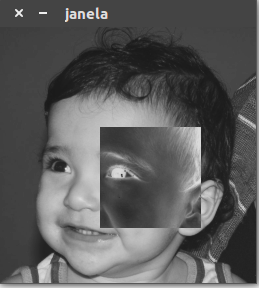
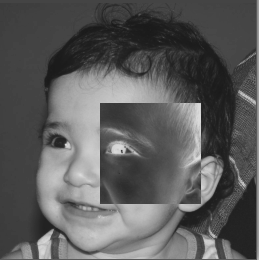
upload 1.3 feito

diff --git a/index.html b/index.html
@@ -512,6 +512,7 @@ body.book #toc,body.book #preamble,body.book h1.sect0,body.book .sect1>h2{page-b
 <ul class="sectlevel2">
 <li><a href="#_1_1_invertendo_cores_de_uma_região">1.1 Invertendo cores de uma região</a></li>
 <li><a href="#_1_2_invertendo_quadrantes_de_uma_imagem">1.2 Invertendo quadrantes de uma imagem</a></li>
+<li><a href="#_1_3_rotulando_e_realizando_contagem_de_objetos_pertencentes_a_uma_imagem">1.3 Rotulando e realizando contagem de objetos pertencentes a uma imagem</a></li>
 </ul>
 </li>
 </ul>
@@ -540,7 +541,7 @@ body.book #toc,body.book #preamble,body.book h1.sect0,body.book .sect1>h2{page-b
 <div class="sect2">
 <h3 id="_1_1_invertendo_cores_de_uma_região">1.1 Invertendo cores de uma região</h3>
 <div class="paragraph">
-<p>O programa <a href="PDI/regions.cpp">regions</a> é capaz de receber como entrada dois pontos (\$\P_{1}\$ e \$\P_{2}\$)  que compõem um retângulo de vértices opostos. Essa região, em efeito negativo, é criada.</p>
+<p>O programa <a href="PDI/regions.cpp">regions.cpp</a> é capaz de receber como entrada dois pontos (\$\P_{1}\$ e \$\P_{2}\$)  que compõem um retângulo de vértices opostos. Essa região, em efeito negativo, é criada.</p>
 </div>
 <div id="exa_hello" class="listingblock">
 <div class="title">regions.cpp</div>
@@ -627,7 +628,7 @@ body.book #toc,body.book #preamble,body.book h1.sect0,body.book .sect1>h2{page-b
 			<span class="tok-n">image</span><span class="tok-p">.</span><span class="tok-n">at</span><span class="tok-o">&lt;</span><span class="tok-n">uchar</span><span class="tok-o">&gt;</span><span class="tok-p">(</span><span class="tok-n">i</span><span class="tok-p">,</span><span class="tok-n">j</span><span class="tok-p">)</span><span class="tok-o">=</span><span class="tok-mi">255</span><span class="tok-o">-</span><span class="tok-n">image</span><span class="tok-p">.</span><span class="tok-n">at</span><span class="tok-o">&lt;</span><span class="tok-n">uchar</span><span class="tok-o">&gt;</span><span class="tok-p">(</span><span class="tok-n">i</span><span class="tok-p">,</span><span class="tok-n">j</span><span class="tok-p">);</span>
 			<span class="tok-p">}</span>
 		<span class="tok-p">}</span>
-		<span class="tok-n">imshow</span><span class="tok-p">(</span><span class="tok-s">&quot;janela&quot;</span><span class="tok-p">,</span><span class="tok-n">image</span><span class="tok-p">);</span>
+		<span class="tok-n">imshow</span><span class="tok-p">(</span><span class="tok-s">&quot;image&quot;</span><span class="tok-p">,</span><span class="tok-n">image</span><span class="tok-p">);</span>
 		<span class="tok-n">waitKey</span><span class="tok-p">();</span>
 	<span class="tok-p">}</span>
 <span class="tok-k">else</span><span class="tok-p">{</span>
@@ -645,7 +646,7 @@ body.book #toc,body.book #preamble,body.book h1.sect0,body.book .sect1>h2{page-b
 <div class="sect2">
 <h3 id="_1_2_invertendo_quadrantes_de_uma_imagem">1.2 Invertendo quadrantes de uma imagem</h3>
 <div class="paragraph">
-<p>O programa <a href="PDI/trocaregioes.cpp">trocaregiões</a> é capaz de dividir a imagem em quatro partes e inverter seus quadrantes em diagonal.</p>
+<p>O programa <a href="PDI/trocaregioes.cpp">trocaregioes.cpp</a> é capaz de dividir a imagem em quatro partes e inverter seus quadrantes em diagonal.</p>
 </div>
 <div id="exa" class="listingblock">
 <div class="title">trocaregioes.cpp</div>
@@ -688,7 +689,107 @@ body.book #toc,body.book #preamble,body.book h1.sect0,body.book .sect1>h2{page-b
 <div class="paragraph">
 <div class="title">Antes e depois:</div>
 <p><span class="image"><img src="./figures/trocaregioesbefore.png" alt="trocaregioesbefore"></span>
-<span class="image"><img src="./figures/trocaregioes.png" alt="256" width="256" height="role=right"></span></p>
+<span class="image"><img src="./figures/trocaregioes.png" alt="role=right"></span></p>
+</div>
+</div>
+<div class="sect2">
+<h3 id="_1_3_rotulando_e_realizando_contagem_de_objetos_pertencentes_a_uma_imagem">1.3 Rotulando e realizando contagem de objetos pertencentes a uma imagem</h3>
+<div class="paragraph">
+<p>O objetivo dessa prática de programação foi aprimorar o programa <a href="PDI/labeling.cpp">labeling.cpp</a> ,previamento desenvolvido pelo professor Agostinho, da seguinte maneira: o algorítmo ignora objetos que estejam no limite da borda da figura e faz destinção de objetos com buracos em seu interior e objetos que não contenham buracos.</p>
+</div>
+<div class="paragraph">
+<p>O programa <a href="PDI/labeling_aprimorado.cpp">labeling_aprimorado.cpp</a> foi desenvolvido e seu código segue abaixo, bem como seus resultados.</p>
+</div>
+<div id="exa1" class="listingblock">
+<div class="title">labeling_aprimorado.cpp</div>
+<div class="content">
+<pre class="pygments highlight"><code data-lang="cpp"><span></span><span class="tok-cp">#include</span> <span class="tok-cpf">&lt;iostream&gt;</span><span class="tok-cp"></span>
+<span class="tok-cp">#include</span> <span class="tok-cpf">&lt;opencv2/opencv.hpp&gt;</span><span class="tok-cp"></span>
+<span class="tok-k">using</span> <span class="tok-k">namespace</span> <span class="tok-n">cv</span><span class="tok-p">;</span>
+<span class="tok-k">using</span> <span class="tok-k">namespace</span> <span class="tok-n">std</span><span class="tok-p">;</span>
+<span class="tok-kt">int</span> <span class="tok-nf">main</span><span class="tok-p">(</span><span class="tok-kt">int</span> <span class="tok-n">argc</span><span class="tok-p">,</span> <span class="tok-kt">char</span><span class="tok-o">**</span> <span class="tok-n">argv</span><span class="tok-p">){</span>
+  <span class="tok-n">Mat</span> <span class="tok-n">image</span><span class="tok-p">,</span> <span class="tok-n">mask</span><span class="tok-p">;</span>
+  <span class="tok-kt">int</span> <span class="tok-n">width</span><span class="tok-p">,</span> <span class="tok-n">height</span><span class="tok-p">;</span>
+  <span class="tok-kt">int</span> <span class="tok-n">nobjects</span><span class="tok-o">=</span><span class="tok-mi">0</span><span class="tok-p">,</span><span class="tok-n">nobjectscomburaco</span><span class="tok-o">=</span><span class="tok-mi">0</span><span class="tok-p">,</span><span class="tok-n">tonNpossuiBuraco</span><span class="tok-o">=</span><span class="tok-mi">150</span><span class="tok-p">,</span><span class="tok-n">tonPossuiBuraco</span><span class="tok-o">=</span><span class="tok-mi">80</span><span class="tok-p">;</span>
+  <span class="tok-n">CvPoint</span> <span class="tok-n">p</span><span class="tok-p">;</span>
+  <span class="tok-n">image</span> <span class="tok-o">=</span> <span class="tok-n">imread</span><span class="tok-p">(</span><span class="tok-n">argv</span><span class="tok-p">[</span><span class="tok-mi">1</span><span class="tok-p">],</span><span class="tok-n">CV_LOAD_IMAGE_GRAYSCALE</span><span class="tok-p">);</span>
+
+  <span class="tok-k">if</span><span class="tok-p">(</span><span class="tok-o">!</span><span class="tok-n">image</span><span class="tok-p">.</span><span class="tok-n">data</span><span class="tok-p">){</span>
+    <span class="tok-n">std</span><span class="tok-o">::</span><span class="tok-n">cout</span> <span class="tok-o">&lt;&lt;</span> <span class="tok-s">&quot;imagem nao carregou corretamente</span><span class="tok-se">\n</span><span class="tok-s">&quot;</span><span class="tok-p">;</span>
+    <span class="tok-k">return</span><span class="tok-p">(</span><span class="tok-o">-</span><span class="tok-mi">1</span><span class="tok-p">);</span>
+  <span class="tok-p">}</span>
+  <span class="tok-n">width</span><span class="tok-o">=</span><span class="tok-n">image</span><span class="tok-p">.</span><span class="tok-n">size</span><span class="tok-p">().</span><span class="tok-n">width</span><span class="tok-p">;</span>
+  <span class="tok-n">height</span><span class="tok-o">=</span><span class="tok-n">image</span><span class="tok-p">.</span><span class="tok-n">size</span><span class="tok-p">().</span><span class="tok-n">height</span><span class="tok-p">;</span>
+
+  <span class="tok-n">p</span><span class="tok-p">.</span><span class="tok-n">x</span><span class="tok-o">=</span><span class="tok-mi">0</span><span class="tok-p">;</span>
+  <span class="tok-n">p</span><span class="tok-p">.</span><span class="tok-n">y</span><span class="tok-o">=</span><span class="tok-mi">0</span><span class="tok-p">;</span>
+<span class="tok-c1">//criando a margem de 1 pixel em tom 255 (branco)</span>
+<span class="tok-k">for</span><span class="tok-p">(</span><span class="tok-kt">int</span> <span class="tok-n">x</span><span class="tok-o">=</span><span class="tok-mi">0</span><span class="tok-p">;</span><span class="tok-n">x</span><span class="tok-o">&lt;</span><span class="tok-n">height</span><span class="tok-p">;</span><span class="tok-o">++</span><span class="tok-n">x</span><span class="tok-p">){</span>
+  <span class="tok-k">for</span> <span class="tok-p">(</span><span class="tok-kt">int</span> <span class="tok-n">y</span> <span class="tok-o">=</span> <span class="tok-mi">0</span><span class="tok-p">;</span> <span class="tok-n">y</span> <span class="tok-o">&lt;</span> <span class="tok-n">width</span><span class="tok-p">;</span> <span class="tok-o">++</span><span class="tok-n">y</span><span class="tok-p">)</span>
+  <span class="tok-p">{</span>
+    <span class="tok-k">if</span><span class="tok-p">(</span><span class="tok-n">x</span><span class="tok-o">==</span><span class="tok-mi">0</span> <span class="tok-o">||</span> <span class="tok-n">x</span><span class="tok-o">==</span> <span class="tok-n">height</span><span class="tok-o">-</span><span class="tok-mi">1</span><span class="tok-p">){</span>
+      <span class="tok-n">image</span><span class="tok-p">.</span><span class="tok-n">at</span><span class="tok-o">&lt;</span><span class="tok-n">uchar</span><span class="tok-o">&gt;</span><span class="tok-p">(</span><span class="tok-n">x</span><span class="tok-p">,</span><span class="tok-n">y</span><span class="tok-p">)</span><span class="tok-o">=</span><span class="tok-mi">255</span><span class="tok-p">;</span>
+    <span class="tok-p">}</span>
+    <span class="tok-k">else</span> <span class="tok-k">if</span><span class="tok-p">(</span><span class="tok-n">y</span><span class="tok-o">==</span><span class="tok-mi">0</span> <span class="tok-o">||</span> <span class="tok-n">y</span><span class="tok-o">==</span><span class="tok-n">width</span><span class="tok-o">-</span><span class="tok-mi">1</span><span class="tok-p">){</span>
+      <span class="tok-n">image</span><span class="tok-p">.</span><span class="tok-n">at</span><span class="tok-o">&lt;</span><span class="tok-n">uchar</span><span class="tok-o">&gt;</span><span class="tok-p">(</span><span class="tok-n">x</span><span class="tok-p">,</span><span class="tok-n">y</span><span class="tok-p">)</span><span class="tok-o">=</span><span class="tok-mi">255</span><span class="tok-p">;</span>
+    <span class="tok-p">}</span>
+  <span class="tok-p">}</span>
+<span class="tok-p">}</span>
+<span class="tok-c1">//Tira todas as bolhas que tocam a margem criada e a mesma</span>
+<span class="tok-n">floodFill</span><span class="tok-p">(</span><span class="tok-n">image</span><span class="tok-p">,</span><span class="tok-n">p</span><span class="tok-p">,</span><span class="tok-mi">0</span><span class="tok-p">);</span>
+<span class="tok-c1">//Cria o plano de fundo com valor diferente do aplicado aos buracos das bolhas</span>
+<span class="tok-n">floodFill</span><span class="tok-p">(</span><span class="tok-n">image</span><span class="tok-p">,</span><span class="tok-n">p</span><span class="tok-p">,</span><span class="tok-mi">1</span><span class="tok-p">);</span>
+<span class="tok-c1">// busca  e rotulação dos objetos presentes na imagem, assumindo que todos não tem buraco</span>
+  <span class="tok-n">nobjects</span><span class="tok-o">=</span><span class="tok-mi">0</span><span class="tok-p">;</span>
+  <span class="tok-k">for</span><span class="tok-p">(</span><span class="tok-kt">int</span> <span class="tok-n">i</span><span class="tok-o">=</span><span class="tok-mi">0</span><span class="tok-p">;</span> <span class="tok-n">i</span><span class="tok-o">&lt;</span><span class="tok-n">height</span><span class="tok-p">;</span> <span class="tok-n">i</span><span class="tok-o">++</span><span class="tok-p">){</span>
+    <span class="tok-k">for</span><span class="tok-p">(</span><span class="tok-kt">int</span> <span class="tok-n">j</span><span class="tok-o">=</span><span class="tok-mi">0</span><span class="tok-p">;</span> <span class="tok-n">j</span><span class="tok-o">&lt;</span><span class="tok-n">width</span><span class="tok-p">;</span> <span class="tok-n">j</span><span class="tok-o">++</span><span class="tok-p">){</span>
+      <span class="tok-k">if</span><span class="tok-p">(</span><span class="tok-n">image</span><span class="tok-p">.</span><span class="tok-n">at</span><span class="tok-o">&lt;</span><span class="tok-n">uchar</span><span class="tok-o">&gt;</span><span class="tok-p">(</span><span class="tok-n">i</span><span class="tok-p">,</span><span class="tok-n">j</span><span class="tok-p">)</span> <span class="tok-o">==</span> <span class="tok-mi">255</span><span class="tok-p">){</span>
+		<span class="tok-c1">// achou um objeto</span>
+		<span class="tok-n">nobjects</span><span class="tok-o">++</span><span class="tok-p">;</span>
+		<span class="tok-n">p</span><span class="tok-p">.</span><span class="tok-n">x</span><span class="tok-o">=</span><span class="tok-n">j</span><span class="tok-p">;</span>
+		<span class="tok-n">p</span><span class="tok-p">.</span><span class="tok-n">y</span><span class="tok-o">=</span><span class="tok-n">i</span><span class="tok-p">;</span>
+		<span class="tok-n">floodFill</span><span class="tok-p">(</span><span class="tok-n">image</span><span class="tok-p">,</span><span class="tok-n">p</span><span class="tok-p">,</span><span class="tok-n">tonNpossuiBuraco</span><span class="tok-p">);</span>
+	  <span class="tok-p">}</span>
+	<span class="tok-p">}</span>
+<span class="tok-p">}</span>
+<span class="tok-c1">//busca objetvos com buraco, dentro do universo dos objetos que foram encontrados  e rotulados antes</span>
+<span class="tok-k">for</span> <span class="tok-p">(</span><span class="tok-kt">int</span> <span class="tok-n">x</span> <span class="tok-o">=</span> <span class="tok-mi">0</span><span class="tok-p">;</span> <span class="tok-n">x</span> <span class="tok-o">&lt;</span> <span class="tok-n">height</span><span class="tok-p">;</span> <span class="tok-o">++</span><span class="tok-n">x</span><span class="tok-p">)</span>
+<span class="tok-p">{</span>
+  <span class="tok-k">for</span> <span class="tok-p">(</span><span class="tok-kt">int</span> <span class="tok-n">y</span> <span class="tok-o">=</span> <span class="tok-mi">0</span><span class="tok-p">;</span> <span class="tok-n">y</span> <span class="tok-o">&lt;</span> <span class="tok-n">width</span><span class="tok-p">;</span> <span class="tok-o">++</span><span class="tok-n">y</span><span class="tok-p">)</span>
+  <span class="tok-p">{</span>
+    <span class="tok-k">if</span><span class="tok-p">(</span><span class="tok-n">image</span><span class="tok-p">.</span><span class="tok-n">at</span><span class="tok-o">&lt;</span><span class="tok-n">uchar</span><span class="tok-o">&gt;</span><span class="tok-p">(</span><span class="tok-n">x</span><span class="tok-p">,</span><span class="tok-n">y</span><span class="tok-p">)</span><span class="tok-o">==</span> <span class="tok-n">tonNpossuiBuraco</span> <span class="tok-o">||</span> <span class="tok-n">image</span><span class="tok-p">.</span><span class="tok-n">at</span><span class="tok-o">&lt;</span><span class="tok-n">uchar</span><span class="tok-o">&gt;</span><span class="tok-p">(</span><span class="tok-n">x</span><span class="tok-p">,</span><span class="tok-n">y</span><span class="tok-p">)</span><span class="tok-o">==</span> <span class="tok-n">tonPossuiBuraco</span><span class="tok-p">){</span>
+      <span class="tok-n">p</span><span class="tok-p">.</span><span class="tok-n">x</span><span class="tok-o">=</span><span class="tok-n">y</span><span class="tok-p">;</span>
+      <span class="tok-n">p</span><span class="tok-p">.</span><span class="tok-n">y</span><span class="tok-o">=</span><span class="tok-n">x</span><span class="tok-p">;</span>
+    <span class="tok-p">}</span>
+    <span class="tok-k">else</span> <span class="tok-k">if</span><span class="tok-p">(</span><span class="tok-n">image</span><span class="tok-p">.</span><span class="tok-n">at</span><span class="tok-o">&lt;</span><span class="tok-n">uchar</span><span class="tok-o">&gt;</span><span class="tok-p">(</span><span class="tok-n">x</span><span class="tok-p">,</span><span class="tok-n">y</span><span class="tok-p">)</span><span class="tok-o">==</span><span class="tok-mi">0</span><span class="tok-p">){</span>
+      <span class="tok-k">if</span> <span class="tok-p">(</span><span class="tok-n">image</span><span class="tok-p">.</span><span class="tok-n">at</span><span class="tok-o">&lt;</span><span class="tok-n">uchar</span><span class="tok-o">&gt;</span><span class="tok-p">(</span><span class="tok-n">p</span><span class="tok-p">.</span><span class="tok-n">y</span><span class="tok-p">,</span><span class="tok-n">p</span><span class="tok-p">.</span><span class="tok-n">x</span><span class="tok-p">)</span><span class="tok-o">==</span><span class="tok-n">tonNpossuiBuraco</span><span class="tok-p">)</span>
+      <span class="tok-p">{</span>
+        <span class="tok-n">floodFill</span><span class="tok-p">(</span><span class="tok-n">image</span><span class="tok-p">,</span><span class="tok-n">p</span><span class="tok-p">,</span><span class="tok-n">tonPossuiBuraco</span><span class="tok-p">);</span>
+        <span class="tok-n">nobjectscomburaco</span><span class="tok-o">++</span><span class="tok-p">;</span>
+      <span class="tok-p">}</span>
+      <span class="tok-n">p</span><span class="tok-p">.</span><span class="tok-n">x</span><span class="tok-o">=</span><span class="tok-n">y</span><span class="tok-p">;</span>
+      <span class="tok-n">p</span><span class="tok-p">.</span><span class="tok-n">y</span><span class="tok-o">=</span><span class="tok-n">x</span><span class="tok-p">;</span>
+      <span class="tok-n">floodFill</span><span class="tok-p">(</span><span class="tok-n">image</span><span class="tok-p">,</span><span class="tok-n">p</span><span class="tok-p">,</span><span class="tok-n">tonPossuiBuraco</span><span class="tok-p">);</span>
+    <span class="tok-p">}</span>
+  <span class="tok-p">}</span>
+<span class="tok-p">}</span>
+  <span class="tok-n">cout</span><span class="tok-o">&lt;&lt;</span><span class="tok-s">&quot;Elementos sem buraco(s): &quot;</span><span class="tok-o">&lt;&lt;</span><span class="tok-p">(</span><span class="tok-n">nobjects</span><span class="tok-o">-</span><span class="tok-n">nobjectscomburaco</span><span class="tok-p">)</span><span class="tok-o">&lt;&lt;</span><span class="tok-n">endl</span><span class="tok-p">;</span>
+  <span class="tok-n">cout</span><span class="tok-o">&lt;&lt;</span><span class="tok-s">&quot;Elementos com buraco(s):&quot;</span> <span class="tok-o">&lt;&lt;</span> <span class="tok-n">nobjectscomburaco</span><span class="tok-o">&lt;&lt;</span><span class="tok-n">endl</span><span class="tok-p">;</span>
+  <span class="tok-n">imshow</span><span class="tok-p">(</span><span class="tok-s">&quot;image&quot;</span><span class="tok-p">,</span> <span class="tok-n">image</span><span class="tok-p">);</span>
+  <span class="tok-n">imwrite</span><span class="tok-p">(</span><span class="tok-s">&quot;labeling.png&quot;</span><span class="tok-p">,</span> <span class="tok-n">image</span><span class="tok-p">);</span>
+  <span class="tok-n">waitKey</span><span class="tok-p">();</span>
+  <span class="tok-k">return</span> <span class="tok-mi">0</span><span class="tok-p">;</span>
+<span class="tok-p">}</span></code></pre>
+</div>
+</div>
+<div class="paragraph">
+<div class="title">Antes e depois</div>
+<p><span class="image"><img src="./figures/bolhas.png" alt="bolhas"></span>
+<span class="image"><img src="./figures/labeling.png" alt="role=right"></span></p>
+</div>
+<div class="paragraph">
+<div class="title">Saída do terminal</div>
+<p><span class="image"><img src="./figures/terminal_labeling.png" alt="role=right"></span></p>
 </div>
 </div>
 </div>
@@ -696,7 +797,7 @@ body.book #toc,body.book #preamble,body.book h1.sect0,body.book .sect1>h2{page-b
 </div>
 <div id="footer">
 <div id="footer-text">
-Last updated 2017-09-08 13:59:35 BRT
+Last updated 2017-09-09 03:45:53 BRT
 </div>
 </div>
 <script type="text/x-mathjax-config">

diff --git a/PDI/labeling_aprimorado.cpp b/PDI/labeling_aprimorado.cpp
@@ -1,0 +1,77 @@
+#include <iostream>
+#include <opencv2/opencv.hpp>
+using namespace cv;
+using namespace std;
+int main(int argc, char** argv){
+  Mat image, mask;
+  int width, height;
+  int nobjects=0,nobjectscomburaco=0,tonNpossuiBuraco=150,tonPossuiBuraco=80;
+  CvPoint p;
+  image = imread(argv[1],CV_LOAD_IMAGE_GRAYSCALE);
+  
+  if(!image.data){
+    std::cout << "imagem nao carregou corretamente\n";
+    return(-1);
+  }
+  width=image.size().width;
+  height=image.size().height;
+
+  p.x=0;
+  p.y=0;
+//criando a margem de 1 pixel em tom 255 (branco)
+for(int x=0;x<height;++x){
+  for (int y = 0; y < width; ++y)
+  {
+    if(x==0 || x== height-1){
+      image.at<uchar>(x,y)=255;
+    }
+    else if(y==0 || y==width-1){
+      image.at<uchar>(x,y)=255;
+    }
+  }
+}
+//Tira todas as bolhas que tocam a margem criada e a mesma
+floodFill(image,p,0);
+//Cria o plano de fundo com valor diferente do aplicado aos buracos das bolhas
+floodFill(image,p,1);
+// busca  e rotulação dos objetos presentes na imagem, assumindo que todos não tem buraco 
+  nobjects=0;
+  for(int i=0; i<height; i++){
+    for(int j=0; j<width; j++){
+      if(image.at<uchar>(i,j) == 255){
+		// achou um objeto
+		nobjects++;
+		p.x=j;
+		p.y=i;
+		floodFill(image,p,tonNpossuiBuraco);
+	  }
+	}
+}
+//busca objetvos com buraco, dentro do universo dos objetos que foram encontrados  e rotulados antes
+for (int x = 0; x < height; ++x)
+{
+  for (int y = 0; y < width; ++y)
+  {
+    if(image.at<uchar>(x,y)== tonNpossuiBuraco || image.at<uchar>(x,y)== tonPossuiBuraco){
+      p.x=y;
+      p.y=x;
+    }
+    else if(image.at<uchar>(x,y)==0){
+      if (image.at<uchar>(p.y,p.x)==tonNpossuiBuraco)
+      {
+        floodFill(image,p,tonPossuiBuraco);
+        nobjectscomburaco++;
+      }
+      p.x=y;
+      p.y=x;
+      floodFill(image,p,tonPossuiBuraco);
+    }
+  }
+}
+  cout<<"Elementos sem buraco(s): "<<(nobjects-nobjectscomburaco)<<endl;
+  cout<<"Elementos com buraco(s):" << nobjectscomburaco<<endl;
+  imshow("image", image);
+  imwrite("labeling.png", image);
+  waitKey();
+  return 0;
+}

diff --git a/PDI/labeling.cpp b/PDI/labeling.cpp
@@ -1,0 +1,41 @@
+#include <iostream>
+#include <opencv2/opencv.hpp>
+
+using namespace cv;
+
+int main(int argc, char** argv){
+  Mat image, mask;
+  int width, height;
+  int nobjects;
+  
+  CvPoint p;
+  image = imread(argv[1],CV_LOAD_IMAGE_GRAYSCALE);
+  
+  if(!image.data){
+    std::cout << "imagem nao carregou corretamente\n";
+    return(-1);
+  }
+  width=image.size().width;
+  height=image.size().height;
+
+  p.x=0;
+  p.y=0;
+
+  // busca objetos com buracos presentes
+  nobjects=0;
+  for(int i=0; i<height; i++){
+    for(int j=0; j<width; j++){
+      if(image.at<uchar>(i,j) == 255){
+		// achou um objeto
+		nobjects++;
+		p.x=j;
+		p.y=i;
+		floodFill(image,p,nobjects);
+	  }
+	}
+  }
+  imshow("image", image);
+  imwrite("labeling.png", image);
+  waitKey();
+  return 0;
+}

diff --git a/PDI/regions.cpp b/PDI/regions.cpp
@@ -80,7 +80,7 @@ if (P2_X > largura or P2_Y > largura)
 			image.at<uchar>(i,j)=255-image.at<uchar>(i,j);
 			}
 		}
-		imshow("janela",image);
+		imshow("image",image);
 		waitKey();
 	}	
 else{
